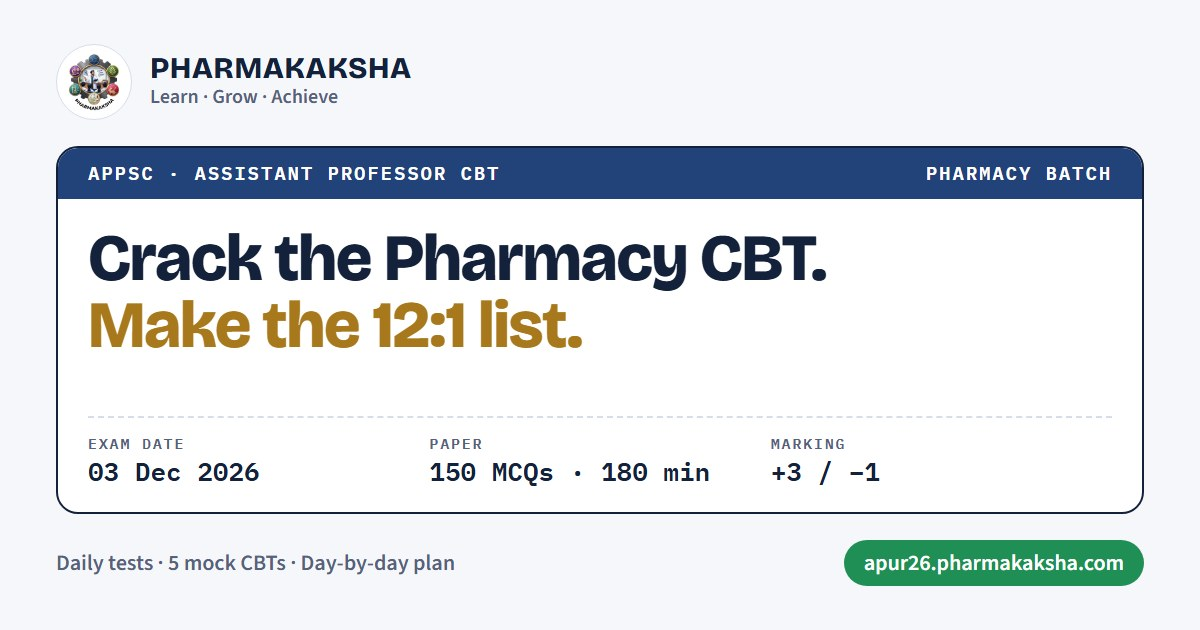
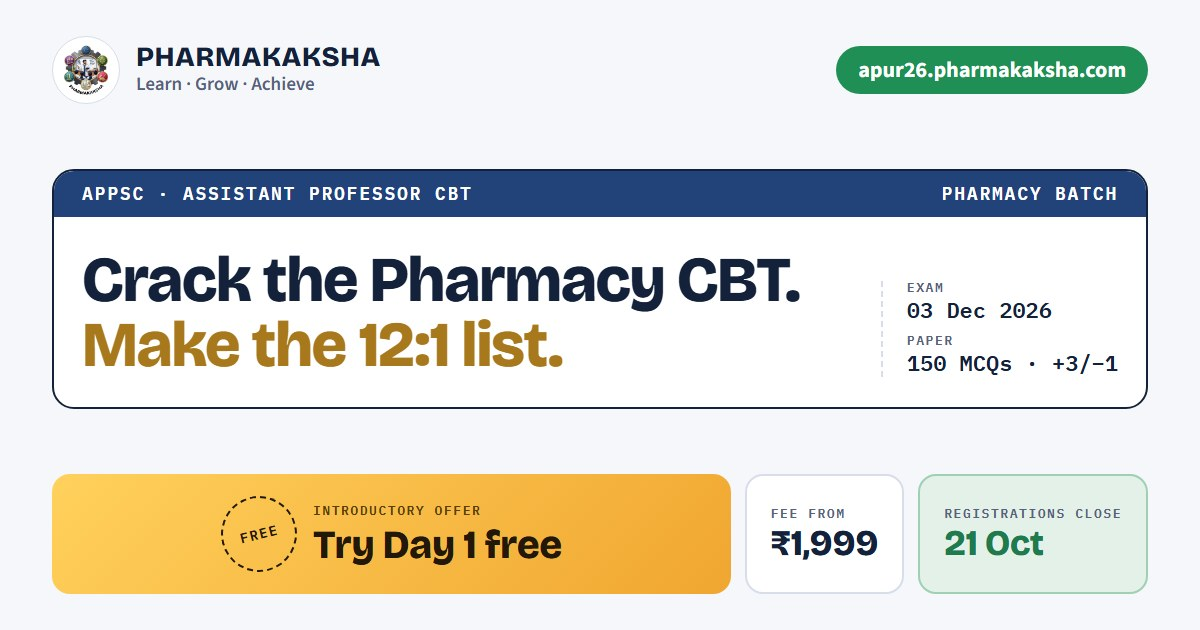
New link preview with offer, WhatsApp Status image
- og-image.jpg: adds Day 1 free, fee from ₹1,999, registrations close 21 Oct
- og:image URL versioned (?v=2) so WhatsApp fetches the new card
- marketing/whatsapp-status-1080x1920.jpg for Status and Stories (not deployed)

diff --git a/index.html b/index.html
@@ -6,10 +6,10 @@
 <meta property="og:type" content="website">
 <meta property="og:url" content="https://apur26.pharmakaksha.com/">
 <meta property="og:site_name" content="Pharmakaksha">
-<meta property="og:image" content="https://apur26.pharmakaksha.com/og-image.jpg">
+<meta property="og:image" content="https://apur26.pharmakaksha.com/og-image.jpg?v=2">
 <meta property="og:image:width" content="1200">
 <meta property="og:image:height" content="630">
-<meta property="og:image:alt" content="Pharmakaksha hall-ticket card: Crack the Pharmacy CBT, make the 12:1 list. Exam 03 Dec 2026, 150 MCQs, 180 min, +3/−1.">
+<meta property="og:image:alt" content="Pharmakaksha: Crack the Pharmacy CBT, make the 12:1 list. Exam 03 Dec 2026. Try Day 1 free, fee from ₹1,999, registrations close 21 Oct.">
 <meta name="twitter:card" content="summary_large_image">
 <link rel="canonical" href="https://apur26.pharmakaksha.com/">
 <meta property="og:title" content="Pharmakaksha · AP Assistant Professor (Pharmacy) CBT batch">
